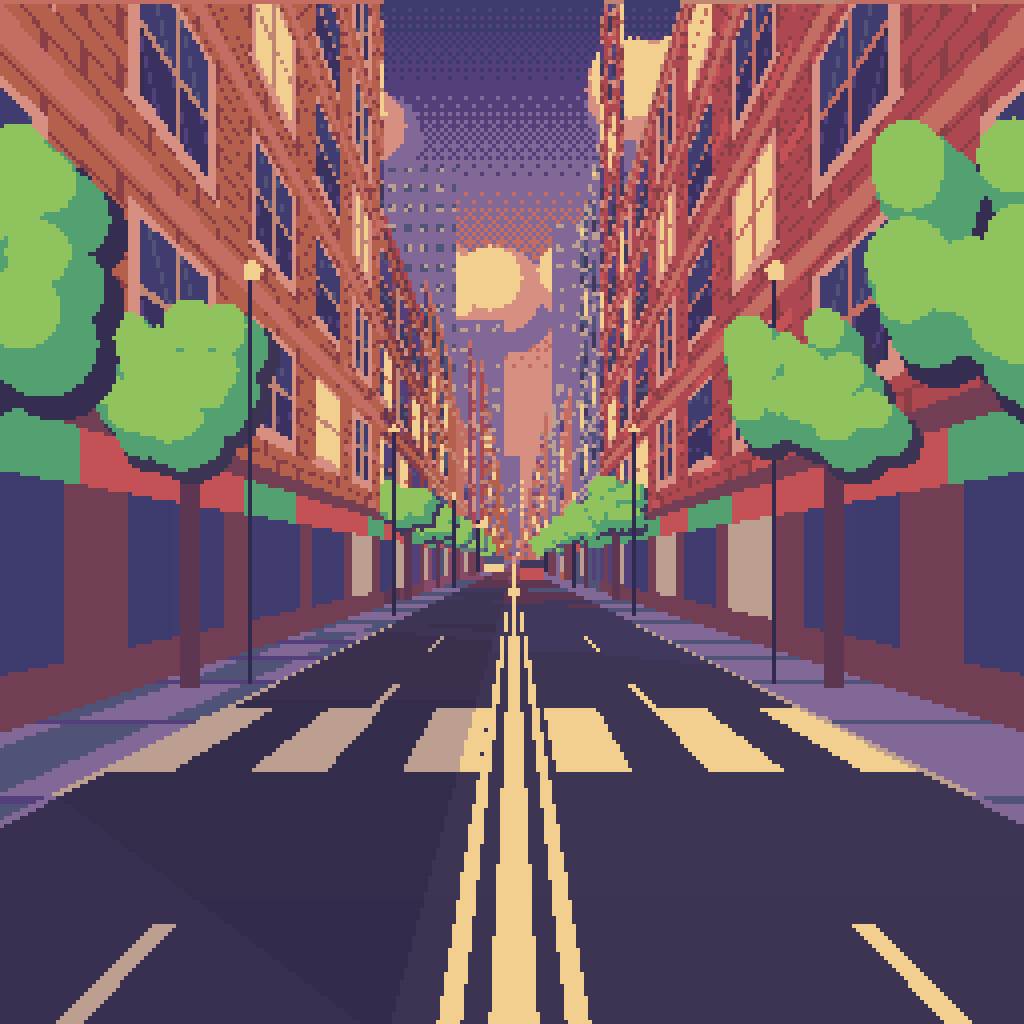
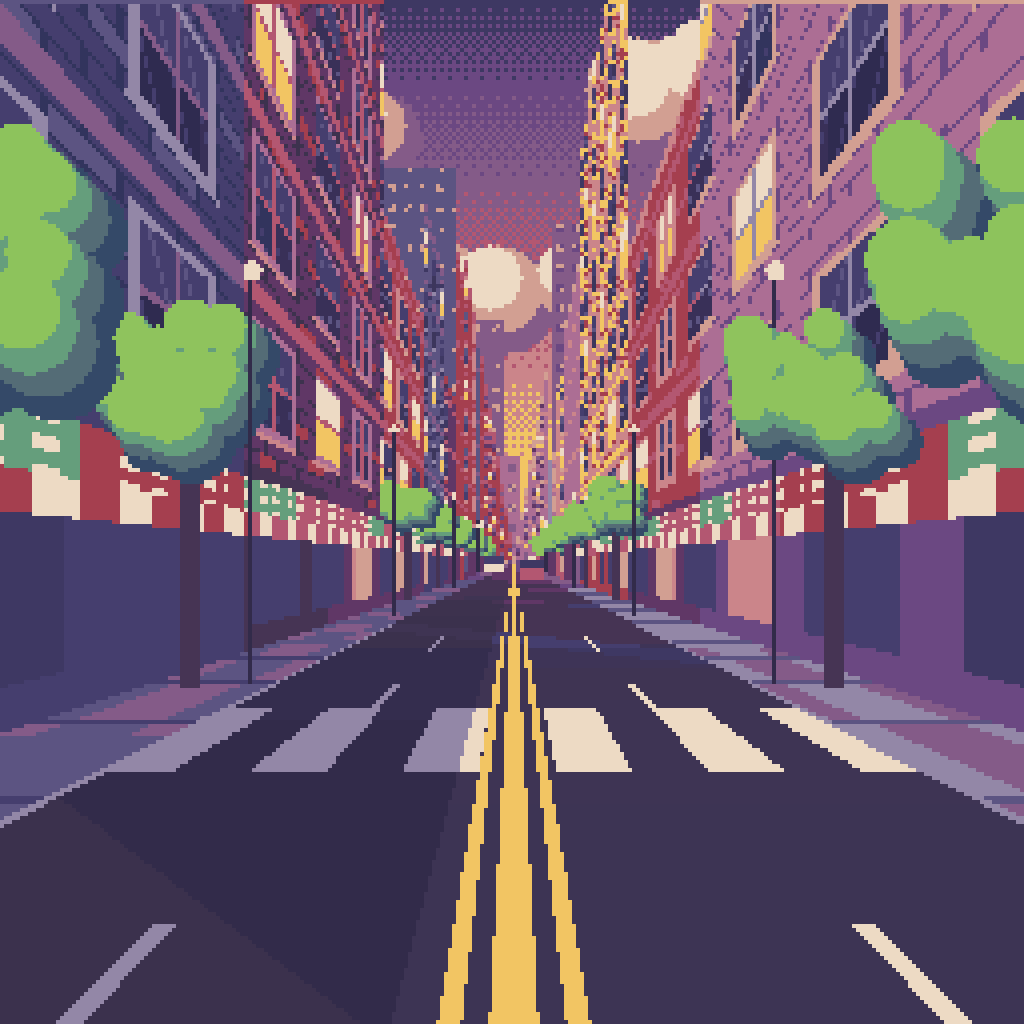
Street step 1b: colour variety, shopfront awnings and signs
Claude-Session: https://claude.ai/code/session_018A3EjUJwum2xaBpGm7gsrV

diff --git a/games/background/street/make_street.py b/games/background/street/make_street.py
@@ -33,14 +33,15 @@ for x0,w,h,c in ((92,22,98,"#6a5a9a"),(138,24,84,"#7a62a0"),(114,12,60,"#8a6aa0"
             px[x,y]=lerp(c,hx("#ffd890"),0.55) if wnd and random.random()<0.35 else (lerp(c,(0,0,0),.12) if wnd else c)
 # facade blocks
 def blocks():
-    z=0.4; out=[]
+    z=0.4; out=[]; prev=None
     while z<70:
-        L=random.uniform(6,13); out.append((z,z+L,random.uniform(13,30),random.choice(("brick","orange","blue","brick")))); z+=L
+        L=random.uniform(6,13); k=random.choice([c for c in ("brick","orange","blue","violet","red") if c!=prev]); prev=k
+        out.append((z,z+L,random.uniform(13,32),k)); z+=L
     return out
 BL={-1:blocks(),1:blocks()}
-BASE={"brick":(hx("#a8404c"),hx("#7a2f4c")),"orange":(hx("#e0803f"),hx("#b05a46")),"blue":(hx("#6a6aa8"),hx("#46467e"))}
+BASE={"brick":(hx("#a8404c"),hx("#7a2f4c")),"orange":(hx("#e0803f"),hx("#b05a46")),"blue":(hx("#6a7ab8"),hx("#46508e")),"violet":(hx("#9a62b0"),hx("#64408a")),"red":(hx("#d0453f"),hx("#8e2c4a"))}
 NAVY=hx("#2a2858"); GLASS=hx("#5a5aa0"); LIT=hx("#ffd36b"); SHOP=hx("#3a2a58")
-def fog(c,z): return lerp(c,HORIZON,min(1,(z/75.0))**0.9*0.40)
+def fog(c,z): return lerp(c,HORIZON,min(1,(z/75.0))**0.9*0.30)
 for x in range(W):
     dx=x-VX
     if dx==0: dx=0.01
@@ -48,14 +49,17 @@ for x in range(W):
     z=F*4.5/abs(dx)
     blk=next((b for b in BL[side] if b[0]<=z<b[1]),BL[side][-1]); bi=BL[side].index(blk)
     ytop=int(VY+(CAMH-blk[2])*F/z); ybot=int(VY+CAMH*F/z)
-    lit,shd=BASE[blk[3]]; base=lit if side==1 else shd
+    lit,shd=BASE[blk[3]]; base=lit if side==1 else lerp(shd,(20,10,50),.15)
     for y in range(max(0,ytop),min(H,ybot+1)):
         h=CAMH-(y-VY)*z/F; fl=int(h//3.2); fh=h%3.2; wz=z%2.6
         c=base
         if fl==0:
-            c=lerp(base,SHOP,.55)
-            if 0.5<fh<2.3 and 0.4<wz<2.2: c=lerp(GLASS,LIT,.5) if (bi+int(z/2.6))%3==0 else lerp(NAVY,GLASS,.3)
-            if 2.3<=fh<2.9: c=hx("#d8434f") if (bi+int(z/5))%2 else hx("#3fa7a3")
+            c=lerp(base,SHOP,.5)
+            if 0.4<fh<1.95 and 0.4<wz<2.2: c=lerp(GLASS,LIT,.55) if (bi+int(z/2.6))%3==0 else lerp(NAVY,GLASS,.3)
+            elif 1.95<=fh<2.35: c=(hx("#e8e0d0") if int(z*2)%2 else hx("#d8434f"))          # awning stripes
+            elif 2.35<=fh<2.95:
+                sg=hx("#d8434f") if (bi+int(z/5))%2 else hx("#3fa7a3")
+                c=lerp(sg,(255,240,230),.7) if int(z*4)%2==0 and int(fh*7)%2==0 and 0.2<wz<2.4 else sg   # sign letters
         else:
             if fh>2.85: c=lerp(base,(255,225,170),.25)
             elif 0.62<fh<2.58 and 0.42<wz<2.02:
